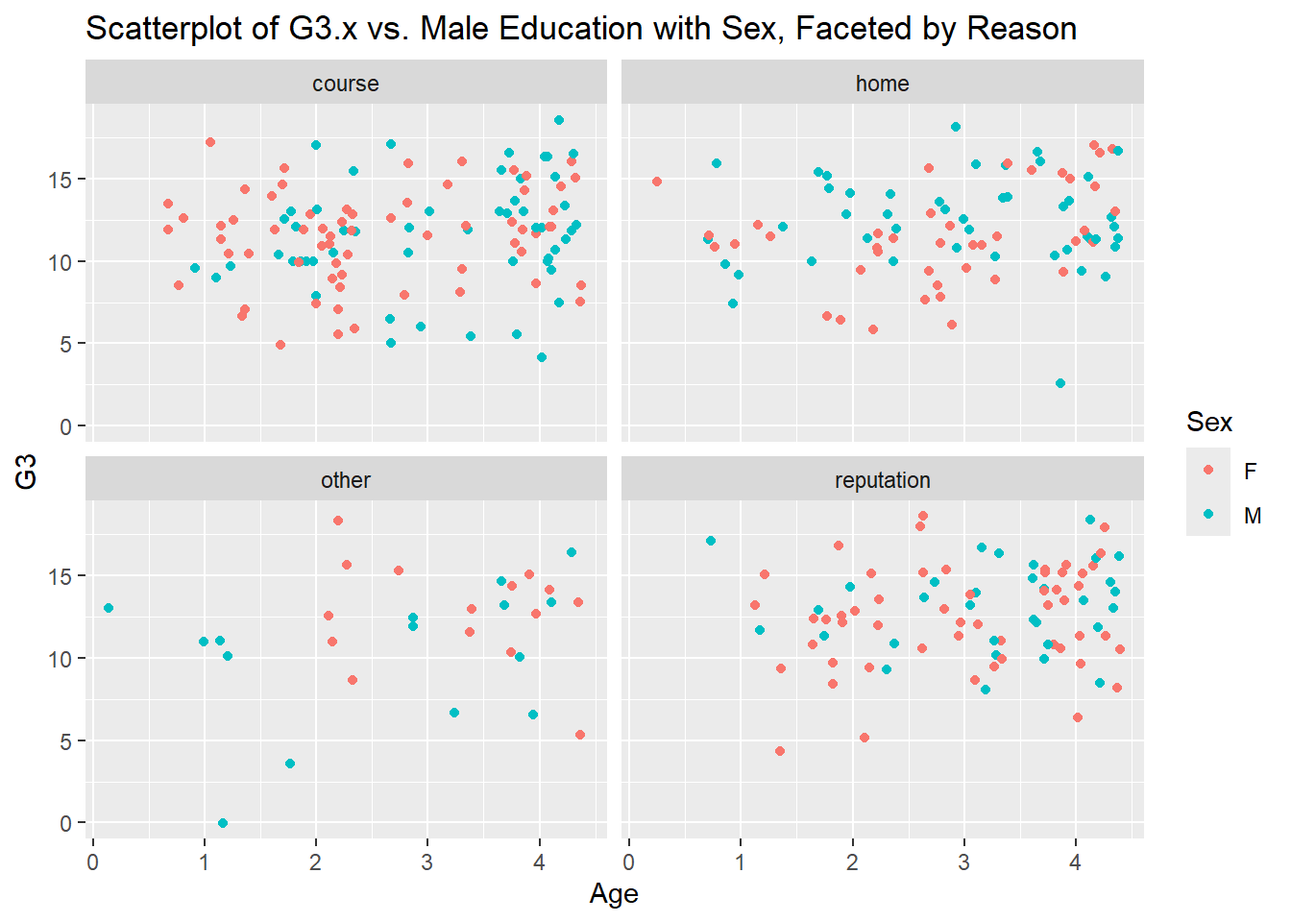
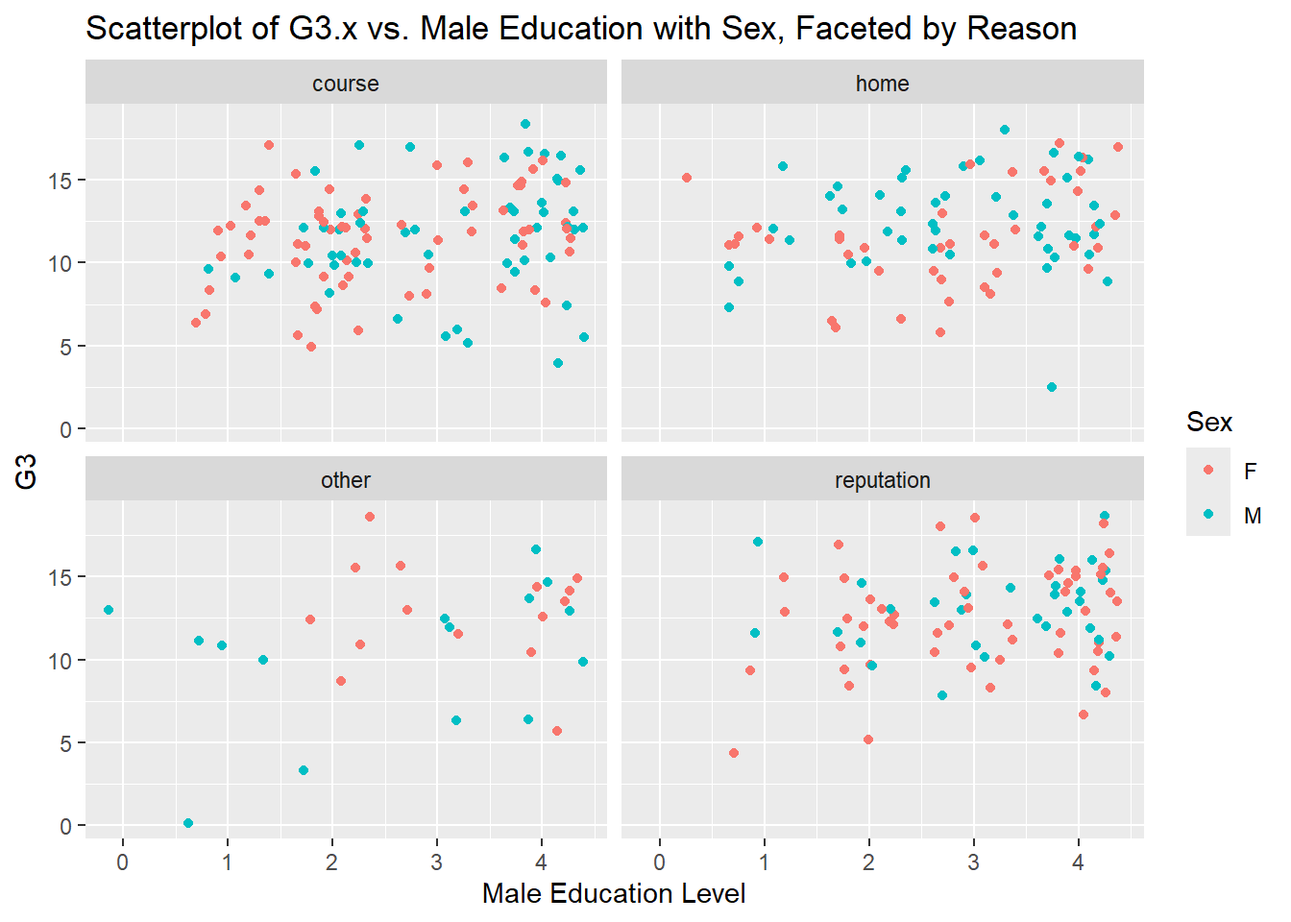
Last

diff --git a/docs/Homework5.html b/docs/Homework5.html
@@ -209,6 +209,7 @@ pre > code.sourceCode > span > a:first-child::before { text-decoration: underlin
 <pre><code>[1] 382</code></pre>
 </div>
 </div>
+<p>Looks like a bunch of variables got split into x &amp; y. Looking at the data, only G1,G2,G3, absences, and paid seem to be different than their pairs.</p>
 <p><strong>Using inner join().</strong></p>
 <div class="cell">
 <div class="sourceCode cell-code" id="cb5"><pre class="sourceCode r code-with-copy"><code class="sourceCode r"><span id="cb5-1"><a href="#cb5-1" aria-hidden="true" tabindex="-1"></a>joined_d3 <span class="ot">&lt;-</span> <span class="fu">inner_join</span>(d1,d2, </span>
@@ -330,6 +331,7 @@ pre > code.sourceCode > span > a:first-child::before { text-decoration: underlin
  $ G3.y      : int  11 11 14 13 13 13 13 17 13 14 ...</code></pre>
 </div>
 </div>
+<p>Now only variables that are split are the ones we specified.</p>
 <p><strong>Picking School,Sex, Famsize, and Reason as our categorical variables.</strong></p>
 <div class="cell">
 <div class="sourceCode cell-code" id="cb11"><pre class="sourceCode r code-with-copy"><code class="sourceCode r"><span id="cb11-1"><a href="#cb11-1" aria-hidden="true" tabindex="-1"></a>final_d1 <span class="ot">&lt;-</span> final_d1 <span class="sc">%&gt;%</span></span>
@@ -382,6 +384,7 @@ pre > code.sourceCode > span > a:first-child::before { text-decoration: underlin
  $ G3.y      : int  11 11 14 13 13 13 13 17 13 14 ...</code></pre>
 </div>
 </div>
+<p>Now as factors.</p>
 </section>
 <section id="task-2" class="level2">
 <h2 class="anchored" data-anchor-id="task-2">Task 2</h2>
@@ -506,6 +509,7 @@ pre > code.sourceCode > span > a:first-child::before { text-decoration: underlin
 </div>
 </div>
 </div>
+<p>Seems fairly even. Reputation might be more for females.</p>
 <p><strong>Side by Side Graph.</strong></p>
 <div class="cell">
 <div class="sourceCode cell-code" id="cb34"><pre class="sourceCode r code-with-copy"><code class="sourceCode r"><span id="cb34-1"><a href="#cb34-1" aria-hidden="true" tabindex="-1"></a><span class="fu">ggplot</span>(<span class="at">data=</span> final_d1 ,<span class="fu">aes</span>(<span class="at">x =</span> school, <span class="at">fill =</span> sex)) <span class="sc">+</span></span>
@@ -530,27 +534,25 @@ pre > code.sourceCode > span > a:first-child::before { text-decoration: underlin
 <p><strong>Single Grouping (by sex):</strong></p>
 <div class="cell">
 <div class="sourceCode cell-code" id="cb35"><pre class="sourceCode r code-with-copy"><code class="sourceCode r"><span id="cb35-1"><a href="#cb35-1" aria-hidden="true" tabindex="-1"></a>one_summary <span class="ot">&lt;-</span> final_d1 <span class="sc">|&gt;</span></span>
-<span id="cb35-2"><a href="#cb35-2" aria-hidden="true" tabindex="-1"></a>              <span class="co">#combining G3s together</span></span>
-<span id="cb35-3"><a href="#cb35-3" aria-hidden="true" tabindex="-1"></a>              <span class="fu">mutate</span>(<span class="at">new_G3 =</span> <span class="fu">rowMeans</span>(<span class="fu">cbind</span>(G3.x, G3.y), <span class="at">na.rm =</span> <span class="cn">TRUE</span>)) <span class="sc">|&gt;</span></span>
-<span id="cb35-4"><a href="#cb35-4" aria-hidden="true" tabindex="-1"></a>                <span class="fu">group_by</span>(sex) <span class="sc">|&gt;</span></span>
-<span id="cb35-5"><a href="#cb35-5" aria-hidden="true" tabindex="-1"></a>                  <span class="fu">summarise</span>(</span>
-<span id="cb35-6"><a href="#cb35-6" aria-hidden="true" tabindex="-1"></a>                    <span class="co">#G3</span></span>
-<span id="cb35-7"><a href="#cb35-7" aria-hidden="true" tabindex="-1"></a>                    <span class="at">mean_G3 =</span> <span class="fu">mean</span>(new_G3, <span class="at">na.rm =</span> <span class="cn">TRUE</span>),</span>
-<span id="cb35-8"><a href="#cb35-8" aria-hidden="true" tabindex="-1"></a>                    <span class="at">median_G3 =</span> <span class="fu">median</span>(new_G3, <span class="at">na.rm =</span> <span class="cn">TRUE</span>),</span>
-<span id="cb35-9"><a href="#cb35-9" aria-hidden="true" tabindex="-1"></a>                    <span class="at">sd_G3 =</span> <span class="fu">sd</span>(new_G3, <span class="at">na.rm =</span> <span class="cn">TRUE</span>),</span>
-<span id="cb35-10"><a href="#cb35-10" aria-hidden="true" tabindex="-1"></a>                    <span class="at">IQR_G3 =</span> <span class="fu">IQR</span>(new_G3, <span class="at">na.rm =</span> <span class="cn">TRUE</span>),</span>
-<span id="cb35-11"><a href="#cb35-11" aria-hidden="true" tabindex="-1"></a>                    <span class="co">#Age</span></span>
-<span id="cb35-12"><a href="#cb35-12" aria-hidden="true" tabindex="-1"></a>                    <span class="at">mean_age =</span> <span class="fu">mean</span>(age, <span class="at">na.rm =</span> <span class="cn">TRUE</span>),</span>
-<span id="cb35-13"><a href="#cb35-13" aria-hidden="true" tabindex="-1"></a>                    <span class="at">median_age =</span> <span class="fu">median</span>(age, <span class="at">na.rm =</span> <span class="cn">TRUE</span>),</span>
-<span id="cb35-14"><a href="#cb35-14" aria-hidden="true" tabindex="-1"></a>                    <span class="at">sd_age =</span> <span class="fu">sd</span>(age, <span class="at">na.rm =</span> <span class="cn">TRUE</span>),</span>
-<span id="cb35-15"><a href="#cb35-15" aria-hidden="true" tabindex="-1"></a>                    <span class="at">IQR_age =</span> <span class="fu">IQR</span>(age, <span class="at">na.rm =</span> <span class="cn">TRUE</span>),</span>
-<span id="cb35-16"><a href="#cb35-16" aria-hidden="true" tabindex="-1"></a>                    <span class="co">#health</span></span>
-<span id="cb35-17"><a href="#cb35-17" aria-hidden="true" tabindex="-1"></a>                    <span class="at">mean_health =</span> <span class="fu">mean</span>(health, <span class="at">na.rm =</span> <span class="cn">TRUE</span>),</span>
-<span id="cb35-18"><a href="#cb35-18" aria-hidden="true" tabindex="-1"></a>                    <span class="at">median_health =</span> <span class="fu">median</span>(health, <span class="at">na.rm =</span> <span class="cn">TRUE</span>),</span>
-<span id="cb35-19"><a href="#cb35-19" aria-hidden="true" tabindex="-1"></a>                    <span class="at">sd_health =</span> <span class="fu">sd</span>(health, <span class="at">na.rm =</span> <span class="cn">TRUE</span>),</span>
-<span id="cb35-20"><a href="#cb35-20" aria-hidden="true" tabindex="-1"></a>                    <span class="at">IQR_health =</span> <span class="fu">IQR</span>(health, <span class="at">na.rm =</span> <span class="cn">TRUE</span>)</span>
-<span id="cb35-21"><a href="#cb35-21" aria-hidden="true" tabindex="-1"></a>                   )</span>
-<span id="cb35-22"><a href="#cb35-22" aria-hidden="true" tabindex="-1"></a>one_summary</span></code><button title="Copy to Clipboard" class="code-copy-button"><i class="bi"></i></button></pre></div>
+<span id="cb35-2"><a href="#cb35-2" aria-hidden="true" tabindex="-1"></a>                <span class="fu">group_by</span>(sex) <span class="sc">|&gt;</span></span>
+<span id="cb35-3"><a href="#cb35-3" aria-hidden="true" tabindex="-1"></a>                  <span class="fu">summarise</span>(</span>
+<span id="cb35-4"><a href="#cb35-4" aria-hidden="true" tabindex="-1"></a>                    <span class="co">#G3</span></span>
+<span id="cb35-5"><a href="#cb35-5" aria-hidden="true" tabindex="-1"></a>                    <span class="at">mean_G3 =</span> <span class="fu">mean</span>((G3.x<span class="sc">+</span>G3.y)<span class="sc">/</span><span class="dv">2</span>, <span class="at">na.rm =</span> <span class="cn">TRUE</span>),</span>
+<span id="cb35-6"><a href="#cb35-6" aria-hidden="true" tabindex="-1"></a>                    <span class="at">median_G3 =</span> <span class="fu">median</span>((G3.x<span class="sc">+</span>G3.y)<span class="sc">/</span><span class="dv">2</span>, <span class="at">na.rm =</span> <span class="cn">TRUE</span>),</span>
+<span id="cb35-7"><a href="#cb35-7" aria-hidden="true" tabindex="-1"></a>                    <span class="at">sd_G3 =</span> <span class="fu">sd</span>((G3.x<span class="sc">+</span>G3.y)<span class="sc">/</span><span class="dv">2</span>, <span class="at">na.rm =</span> <span class="cn">TRUE</span>),</span>
+<span id="cb35-8"><a href="#cb35-8" aria-hidden="true" tabindex="-1"></a>                    <span class="at">IQR_G3 =</span> <span class="fu">IQR</span>((G3.x<span class="sc">+</span>G3.y)<span class="sc">/</span><span class="dv">2</span>, <span class="at">na.rm =</span> <span class="cn">TRUE</span>),</span>
+<span id="cb35-9"><a href="#cb35-9" aria-hidden="true" tabindex="-1"></a>                    <span class="co">#Age</span></span>
+<span id="cb35-10"><a href="#cb35-10" aria-hidden="true" tabindex="-1"></a>                    <span class="at">mean_age =</span> <span class="fu">mean</span>(age, <span class="at">na.rm =</span> <span class="cn">TRUE</span>),</span>
+<span id="cb35-11"><a href="#cb35-11" aria-hidden="true" tabindex="-1"></a>                    <span class="at">median_age =</span> <span class="fu">median</span>(age, <span class="at">na.rm =</span> <span class="cn">TRUE</span>),</span>
+<span id="cb35-12"><a href="#cb35-12" aria-hidden="true" tabindex="-1"></a>                    <span class="at">sd_age =</span> <span class="fu">sd</span>(age, <span class="at">na.rm =</span> <span class="cn">TRUE</span>),</span>
+<span id="cb35-13"><a href="#cb35-13" aria-hidden="true" tabindex="-1"></a>                    <span class="at">IQR_age =</span> <span class="fu">IQR</span>(age, <span class="at">na.rm =</span> <span class="cn">TRUE</span>),</span>
+<span id="cb35-14"><a href="#cb35-14" aria-hidden="true" tabindex="-1"></a>                    <span class="co">#health</span></span>
+<span id="cb35-15"><a href="#cb35-15" aria-hidden="true" tabindex="-1"></a>                    <span class="at">mean_health =</span> <span class="fu">mean</span>(health, <span class="at">na.rm =</span> <span class="cn">TRUE</span>),</span>
+<span id="cb35-16"><a href="#cb35-16" aria-hidden="true" tabindex="-1"></a>                    <span class="at">median_health =</span> <span class="fu">median</span>(health, <span class="at">na.rm =</span> <span class="cn">TRUE</span>),</span>
+<span id="cb35-17"><a href="#cb35-17" aria-hidden="true" tabindex="-1"></a>                    <span class="at">sd_health =</span> <span class="fu">sd</span>(health, <span class="at">na.rm =</span> <span class="cn">TRUE</span>),</span>
+<span id="cb35-18"><a href="#cb35-18" aria-hidden="true" tabindex="-1"></a>                    <span class="at">IQR_health =</span> <span class="fu">IQR</span>(health, <span class="at">na.rm =</span> <span class="cn">TRUE</span>)</span>
+<span id="cb35-19"><a href="#cb35-19" aria-hidden="true" tabindex="-1"></a>                   )</span>
+<span id="cb35-20"><a href="#cb35-20" aria-hidden="true" tabindex="-1"></a>one_summary</span></code><button title="Copy to Clipboard" class="code-copy-button"><i class="bi"></i></button></pre></div>
 <div class="cell-output cell-output-stdout">
 <pre><code># A tibble: 2 × 13
   sex   mean_G3 median_G3 sd_G3 IQR_G3 mean_age median_age sd_age IQR_age
@@ -561,28 +563,28 @@ pre > code.sourceCode > span > a:first-child::before { text-decoration: underlin
 #   IQR_health &lt;dbl&gt;</code></pre>
 </div>
 </div>
+<p>Summary of G3,age,and health.</p>
 <p><strong>Two grouping variables (Sex and School):</strong></p>
 <div class="cell">
 <div class="sourceCode cell-code" id="cb37"><pre class="sourceCode r code-with-copy"><code class="sourceCode r"><span id="cb37-1"><a href="#cb37-1" aria-hidden="true" tabindex="-1"></a>two_summary <span class="ot">&lt;-</span> final_d1 <span class="sc">|&gt;</span></span>
-<span id="cb37-2"><a href="#cb37-2" aria-hidden="true" tabindex="-1"></a>                <span class="fu">mutate</span>(<span class="at">new_G2 =</span> <span class="fu">rowMeans</span>(<span class="fu">cbind</span>(G2.x, G2.y), <span class="at">na.rm =</span> <span class="cn">TRUE</span>),<span class="at">new_absences =</span> <span class="fu">rowMeans</span>(<span class="fu">cbind</span>(absences.x, absences.y, <span class="at">na.rm =</span> <span class="cn">TRUE</span>))) <span class="sc">|&gt;</span></span>
-<span id="cb37-3"><a href="#cb37-3" aria-hidden="true" tabindex="-1"></a>                <span class="fu">group_by</span>(sex,school) <span class="sc">|&gt;</span></span>
-<span id="cb37-4"><a href="#cb37-4" aria-hidden="true" tabindex="-1"></a>                  <span class="fu">summarise</span>(</span>
-<span id="cb37-5"><a href="#cb37-5" aria-hidden="true" tabindex="-1"></a>                    <span class="co">#G2</span></span>
-<span id="cb37-6"><a href="#cb37-6" aria-hidden="true" tabindex="-1"></a>                    <span class="at">mean_G2 =</span> <span class="fu">mean</span>(new_G2, <span class="at">na.rm =</span> <span class="cn">TRUE</span>),</span>
-<span id="cb37-7"><a href="#cb37-7" aria-hidden="true" tabindex="-1"></a>                    <span class="at">median_G2 =</span> <span class="fu">median</span>(new_G2, <span class="at">na.rm =</span> <span class="cn">TRUE</span>),</span>
-<span id="cb37-8"><a href="#cb37-8" aria-hidden="true" tabindex="-1"></a>                    <span class="at">sd_G2 =</span> <span class="fu">sd</span>(new_G2, <span class="at">na.rm =</span> <span class="cn">TRUE</span>),</span>
-<span id="cb37-9"><a href="#cb37-9" aria-hidden="true" tabindex="-1"></a>                    <span class="at">IQR_G2 =</span> <span class="fu">IQR</span>(new_G2, <span class="at">na.rm =</span> <span class="cn">TRUE</span>),</span>
-<span id="cb37-10"><a href="#cb37-10" aria-hidden="true" tabindex="-1"></a>                    <span class="co">#age</span></span>
-<span id="cb37-11"><a href="#cb37-11" aria-hidden="true" tabindex="-1"></a>                    <span class="at">mean_age =</span> <span class="fu">mean</span>(age, <span class="at">na.rm =</span> <span class="cn">TRUE</span>),</span>
-<span id="cb37-12"><a href="#cb37-12" aria-hidden="true" tabindex="-1"></a>                    <span class="at">median_age =</span> <span class="fu">median</span>(age, <span class="at">na.rm =</span> <span class="cn">TRUE</span>),</span>
-<span id="cb37-13"><a href="#cb37-13" aria-hidden="true" tabindex="-1"></a>                    <span class="at">sd_age =</span> <span class="fu">sd</span>(age, <span class="at">na.rm =</span> <span class="cn">TRUE</span>),</span>
-<span id="cb37-14"><a href="#cb37-14" aria-hidden="true" tabindex="-1"></a>                    <span class="at">IQR_age =</span> <span class="fu">IQR</span>(age, <span class="at">na.rm =</span> <span class="cn">TRUE</span>),</span>
-<span id="cb37-15"><a href="#cb37-15" aria-hidden="true" tabindex="-1"></a>                    <span class="co">#absences (another split variable with x/y datasets)</span></span>
-<span id="cb37-16"><a href="#cb37-16" aria-hidden="true" tabindex="-1"></a>                    <span class="at">mean_absences =</span> <span class="fu">mean</span>(new_absences, <span class="at">na.rm =</span> <span class="cn">TRUE</span>),</span>
-<span id="cb37-17"><a href="#cb37-17" aria-hidden="true" tabindex="-1"></a>                    <span class="at">median_absences =</span> <span class="fu">median</span>(new_absences, <span class="at">na.rm =</span> <span class="cn">TRUE</span>),</span>
-<span id="cb37-18"><a href="#cb37-18" aria-hidden="true" tabindex="-1"></a>                    <span class="at">sd_absences =</span> <span class="fu">sd</span>(new_absences, <span class="at">na.rm =</span> <span class="cn">TRUE</span>),</span>
-<span id="cb37-19"><a href="#cb37-19" aria-hidden="true" tabindex="-1"></a>                    <span class="at">IQR_absences =</span> <span class="fu">IQR</span>(new_absences, <span class="at">na.rm =</span> <span class="cn">TRUE</span>)</span>
-<span id="cb37-20"><a href="#cb37-20" aria-hidden="true" tabindex="-1"></a>                   )</span></code><button title="Copy to Clipboard" class="code-copy-button"><i class="bi"></i></button></pre></div>
+<span id="cb37-2"><a href="#cb37-2" aria-hidden="true" tabindex="-1"></a>                <span class="fu">group_by</span>(sex,school) <span class="sc">|&gt;</span></span>
+<span id="cb37-3"><a href="#cb37-3" aria-hidden="true" tabindex="-1"></a>                  <span class="fu">summarise</span>(</span>
+<span id="cb37-4"><a href="#cb37-4" aria-hidden="true" tabindex="-1"></a>                    <span class="co">#G2</span></span>
+<span id="cb37-5"><a href="#cb37-5" aria-hidden="true" tabindex="-1"></a>                    <span class="at">mean_G2 =</span> <span class="fu">mean</span>((G2.x<span class="sc">+</span>G2.y)<span class="sc">/</span><span class="dv">2</span>, <span class="at">na.rm =</span> <span class="cn">TRUE</span>),</span>
+<span id="cb37-6"><a href="#cb37-6" aria-hidden="true" tabindex="-1"></a>                    <span class="at">median_G2 =</span> <span class="fu">median</span>((G2.x<span class="sc">+</span>G2.y)<span class="sc">/</span><span class="dv">2</span>, <span class="at">na.rm =</span> <span class="cn">TRUE</span>),</span>
+<span id="cb37-7"><a href="#cb37-7" aria-hidden="true" tabindex="-1"></a>                    <span class="at">sd_G2 =</span> <span class="fu">sd</span>((G2.x<span class="sc">+</span>G2.y)<span class="sc">/</span><span class="dv">2</span>, <span class="at">na.rm =</span> <span class="cn">TRUE</span>),</span>
+<span id="cb37-8"><a href="#cb37-8" aria-hidden="true" tabindex="-1"></a>                    <span class="at">IQR_G2 =</span> <span class="fu">IQR</span>((G2.x<span class="sc">+</span>G2.y)<span class="sc">/</span><span class="dv">2</span>, <span class="at">na.rm =</span> <span class="cn">TRUE</span>),</span>
+<span id="cb37-9"><a href="#cb37-9" aria-hidden="true" tabindex="-1"></a>                    <span class="co">#age</span></span>
+<span id="cb37-10"><a href="#cb37-10" aria-hidden="true" tabindex="-1"></a>                    <span class="at">mean_age =</span> <span class="fu">mean</span>(age, <span class="at">na.rm =</span> <span class="cn">TRUE</span>),</span>
+<span id="cb37-11"><a href="#cb37-11" aria-hidden="true" tabindex="-1"></a>                    <span class="at">median_age =</span> <span class="fu">median</span>(age, <span class="at">na.rm =</span> <span class="cn">TRUE</span>),</span>
+<span id="cb37-12"><a href="#cb37-12" aria-hidden="true" tabindex="-1"></a>                    <span class="at">sd_age =</span> <span class="fu">sd</span>(age, <span class="at">na.rm =</span> <span class="cn">TRUE</span>),</span>
+<span id="cb37-13"><a href="#cb37-13" aria-hidden="true" tabindex="-1"></a>                    <span class="at">IQR_age =</span> <span class="fu">IQR</span>(age, <span class="at">na.rm =</span> <span class="cn">TRUE</span>),</span>
+<span id="cb37-14"><a href="#cb37-14" aria-hidden="true" tabindex="-1"></a>                    <span class="co">#absences</span></span>
+<span id="cb37-15"><a href="#cb37-15" aria-hidden="true" tabindex="-1"></a>                    <span class="at">mean_absences =</span> <span class="fu">mean</span>((absences.x<span class="sc">+</span>absences.y)<span class="sc">/</span><span class="dv">2</span>, <span class="at">na.rm =</span> <span class="cn">TRUE</span>),</span>
+<span id="cb37-16"><a href="#cb37-16" aria-hidden="true" tabindex="-1"></a>                    <span class="at">median_absences =</span> <span class="fu">median</span>((absences.x<span class="sc">+</span>absences.y)<span class="sc">/</span><span class="dv">2</span>, <span class="at">na.rm =</span> <span class="cn">TRUE</span>),</span>
+<span id="cb37-17"><a href="#cb37-17" aria-hidden="true" tabindex="-1"></a>                    <span class="at">sd_absences =</span> <span class="fu">sd</span>((absences.x<span class="sc">+</span>absences.y)<span class="sc">/</span><span class="dv">2</span>, <span class="at">na.rm =</span> <span class="cn">TRUE</span>),</span>
+<span id="cb37-18"><a href="#cb37-18" aria-hidden="true" tabindex="-1"></a>                    <span class="at">IQR_absences =</span> <span class="fu">IQR</span>((absences.x<span class="sc">+</span>absences.y)<span class="sc">/</span><span class="dv">2</span>, <span class="at">na.rm =</span> <span class="cn">TRUE</span>)</span>
+<span id="cb37-19"><a href="#cb37-19" aria-hidden="true" tabindex="-1"></a>                   )</span></code><button title="Copy to Clipboard" class="code-copy-button"><i class="bi"></i></button></pre></div>
 <div class="cell-output cell-output-stderr">
 <pre><code>`summarise()` has grouped output by 'sex'. You can override using the `.groups`
 argument.</code></pre>
@@ -601,7 +603,7 @@ argument.</code></pre>
 #   sd_absences &lt;dbl&gt;, IQR_absences &lt;dbl&gt;</code></pre>
 </div>
 </div>
-<p><strong>Correlation matrix of all numeric variables.</strong></p>
+<p>Split between gender and school. <strong>Correlation matrix of all numeric variables.</strong></p>
 <div class="cell">
 <div class="sourceCode cell-code" id="cb41"><pre class="sourceCode r code-with-copy"><code class="sourceCode r"><span id="cb41-1"><a href="#cb41-1" aria-hidden="true" tabindex="-1"></a>numeric_d1 <span class="ot">&lt;-</span> final_d1 <span class="sc">|&gt;</span></span>
 <span id="cb41-2"><a href="#cb41-2" aria-hidden="true" tabindex="-1"></a>  <span class="fu">select</span>(<span class="fu">where</span>(is.numeric))</span>
@@ -712,6 +714,7 @@ G3.y        0.475956497 -0.071452010  0.82541432  0.89430982  1.000000000</code>
 </div>
 </div>
 </div>
+<p>Few outliers noted, older students.</p>
 <p><strong>Kernel Density Plot</strong></p>
 <p>#fix</p>
 <div class="cell">
@@ -731,16 +734,16 @@ G3.y        0.475956497 -0.071452010  0.82541432  0.89430982  1.000000000</code>
 </div>
 </div>
 </div>
+<p>Somewhat skewed.</p>
 <p><strong>Boxplot of two numerical variables w/ categorical</strong></p>
 <div class="cell">
-<div class="sourceCode cell-code" id="cb45"><pre class="sourceCode r code-with-copy"><code class="sourceCode r"><span id="cb45-1"><a href="#cb45-1" aria-hidden="true" tabindex="-1"></a><span class="fu">ggplot</span>(<span class="at">data=</span> final_d1 , <span class="fu">aes</span>(<span class="at">x =</span> age,<span class="at">y=</span>(G2.x<span class="sc">+</span>G2.y)<span class="sc">/</span><span class="dv">2</span>, <span class="at">fill=</span>sex)) <span class="sc">+</span></span>
+<div class="sourceCode cell-code" id="cb45"><pre class="sourceCode r code-with-copy"><code class="sourceCode r"><span id="cb45-1"><a href="#cb45-1" aria-hidden="true" tabindex="-1"></a><span class="fu">ggplot</span>(<span class="at">data=</span> final_d1 , <span class="fu">aes</span>(<span class="at">x =</span> (G2.x<span class="sc">+</span>G2.y)<span class="sc">/</span><span class="dv">2</span>, <span class="at">fill=</span>sex)) <span class="sc">+</span></span>
 <span id="cb45-2"><a href="#cb45-2" aria-hidden="true" tabindex="-1"></a>  <span class="fu">geom_boxplot</span>() <span class="sc">+</span></span>
 <span id="cb45-3"><a href="#cb45-3" aria-hidden="true" tabindex="-1"></a>  <span class="fu">labs</span>(</span>
-<span id="cb45-4"><a href="#cb45-4" aria-hidden="true" tabindex="-1"></a>    <span class="at">title =</span> <span class="st">"Boxplot of Age by Sex"</span>,</span>
-<span id="cb45-5"><a href="#cb45-5" aria-hidden="true" tabindex="-1"></a>    <span class="at">x =</span> <span class="st">"Age"</span>,</span>
-<span id="cb45-6"><a href="#cb45-6" aria-hidden="true" tabindex="-1"></a>    <span class="at">y=</span><span class="st">"Mean of G2"</span>,</span>
-<span id="cb45-7"><a href="#cb45-7" aria-hidden="true" tabindex="-1"></a>    <span class="at">fill=</span><span class="st">"Sex"</span></span>
-<span id="cb45-8"><a href="#cb45-8" aria-hidden="true" tabindex="-1"></a>)</span></code><button title="Copy to Clipboard" class="code-copy-button"><i class="bi"></i></button></pre></div>
+<span id="cb45-4"><a href="#cb45-4" aria-hidden="true" tabindex="-1"></a>    <span class="at">title =</span> <span class="st">"Boxplot of G2 scores by Sex"</span>,</span>
+<span id="cb45-5"><a href="#cb45-5" aria-hidden="true" tabindex="-1"></a>    <span class="at">x =</span> <span class="st">"Mean of G2"</span>,</span>
+<span id="cb45-6"><a href="#cb45-6" aria-hidden="true" tabindex="-1"></a>    <span class="at">fill=</span><span class="st">"Sex"</span></span>
+<span id="cb45-7"><a href="#cb45-7" aria-hidden="true" tabindex="-1"></a>)</span></code><button title="Copy to Clipboard" class="code-copy-button"><i class="bi"></i></button></pre></div>
 <div class="cell-output-display">
 <div>
 <figure class="figure">
@@ -749,6 +752,7 @@ G3.y        0.475956497 -0.071452010  0.82541432  0.89430982  1.000000000</code>
 </div>
 </div>
 </div>
+<p>Males scored slightly higher.</p>
 <p><strong>Scatterplot #1</strong></p>
 <div class="cell">
 <div class="sourceCode cell-code" id="cb46"><pre class="sourceCode r code-with-copy"><code class="sourceCode r"><span id="cb46-1"><a href="#cb46-1" aria-hidden="true" tabindex="-1"></a><span class="fu">ggplot</span>(final_d1,  <span class="fu">aes</span>(<span class="at">x =</span> age, <span class="at">y =</span> (G3.x<span class="sc">+</span>G3.y)<span class="sc">/</span><span class="dv">2</span>, <span class="at">color =</span> sex) ) <span class="sc">+</span></span>
@@ -767,6 +771,7 @@ G3.y        0.475956497 -0.071452010  0.82541432  0.89430982  1.000000000</code>
 </div>
 </div>
 </div>
+<p>Looks fairly random.</p>
 <p><strong>Scatterplot #2</strong></p>
 <div class="cell">
 <div class="sourceCode cell-code" id="cb47"><pre class="sourceCode r code-with-copy"><code class="sourceCode r"><span id="cb47-1"><a href="#cb47-1" aria-hidden="true" tabindex="-1"></a><span class="fu">ggplot</span>(final_d1,  <span class="fu">aes</span>(<span class="at">x =</span> Medu, <span class="at">y =</span> (G3.x<span class="sc">+</span>G3.y)<span class="sc">/</span><span class="dv">2</span>, <span class="at">color =</span> reason) ) <span class="sc">+</span></span>
@@ -804,13 +809,14 @@ G3.y        0.475956497 -0.071452010  0.82541432  0.89430982  1.000000000</code>
 </div>
 </div>
 </div>
+<p>Looks like more variance at school MS.</p>
 <p><strong>Faceted Scatterplot #2</strong></p>
 <div class="cell">
 <div class="sourceCode cell-code" id="cb49"><pre class="sourceCode r code-with-copy"><code class="sourceCode r"><span id="cb49-1"><a href="#cb49-1" aria-hidden="true" tabindex="-1"></a><span class="fu">ggplot</span>(final_d1, <span class="fu">aes</span>(<span class="at">x =</span> Medu, <span class="at">y =</span> (G3.x<span class="sc">+</span>G3.y)<span class="sc">/</span><span class="dv">2</span>, <span class="at">color =</span> sex)) <span class="sc">+</span></span>
 <span id="cb49-2"><a href="#cb49-2" aria-hidden="true" tabindex="-1"></a>  <span class="fu">geom_point</span>(<span class="at">position=</span><span class="st">"jitter"</span>) <span class="sc">+</span></span>
 <span id="cb49-3"><a href="#cb49-3" aria-hidden="true" tabindex="-1"></a>  <span class="fu">labs</span>(</span>
 <span id="cb49-4"><a href="#cb49-4" aria-hidden="true" tabindex="-1"></a>    <span class="at">title =</span> <span class="st">"Scatterplot of G3.x vs. Male Education with Sex, Faceted by Reason"</span>,</span>
-<span id="cb49-5"><a href="#cb49-5" aria-hidden="true" tabindex="-1"></a>    <span class="at">x =</span> <span class="st">"Age"</span>,</span>
+<span id="cb49-5"><a href="#cb49-5" aria-hidden="true" tabindex="-1"></a>    <span class="at">x =</span> <span class="st">"Male Education Level"</span>,</span>
 <span id="cb49-6"><a href="#cb49-6" aria-hidden="true" tabindex="-1"></a>    <span class="at">y =</span> <span class="st">"G3"</span>,</span>
 <span id="cb49-7"><a href="#cb49-7" aria-hidden="true" tabindex="-1"></a>    <span class="at">color =</span> <span class="st">"Sex"</span></span>
 <span id="cb49-8"><a href="#cb49-8" aria-hidden="true" tabindex="-1"></a>    ) <span class="sc">+</span></span>
@@ -823,6 +829,7 @@ G3.y        0.475956497 -0.071452010  0.82541432  0.89430982  1.000000000</code>
 </div>
 </div>
 </div>
+<p>Students favor reputation and course.</p>
 <p><strong>Faceting Two Categorical Variables</strong></p>
 <div class="cell">
 <div class="sourceCode cell-code" id="cb50"><pre class="sourceCode r code-with-copy"><code class="sourceCode r"><span id="cb50-1"><a href="#cb50-1" aria-hidden="true" tabindex="-1"></a><span class="fu">ggplot</span>(final_d1, <span class="fu">aes</span>(<span class="at">x =</span> age, <span class="at">y =</span> (G3.x<span class="sc">+</span>G3.y)<span class="sc">/</span><span class="dv">2</span>, <span class="at">color =</span> sex)) <span class="sc">+</span></span>
@@ -842,6 +849,7 @@ G3.y        0.475956497 -0.071452010  0.82541432  0.89430982  1.000000000</code>
 </div>
 </div>
 </div>
+<p>Less males at MS.</p>
 
 
 </section>
